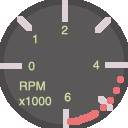
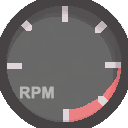
rebalancing, retexturing, ground textures, added v6 engine to the game

diff --git a/res/physics.py b/res/physics.py
@@ -60,22 +60,42 @@ def LimitAngularVelocity(body):
 def DisplayDistance(obj):
     x = obj.X_Position + 30
     text = str(round(x / 32)) + " M"
-    obj.screen.blit(obj.largefont.render(text, True, (220,220,220)), (700,obj.dimensions[1] -100))
+    obj.screen.blit(obj.largefont.render(text, True, (220,220,220)), (140,obj.dimensions[1] -80))
 #physics
-"""Drawing the Vehicle"""
-def Draw(obj):
+def DrawBackground(obj):
     c = 0
     obj.TransferredPolygon = []
     #print("GP:", obj.GroundPolygon)
     while c < len(obj.GroundPolygon):
         obj.TransferredPolygon.append(utils.MultiplyTuple(utils.AddTuples(obj.GroundPolygon[c], (-obj.X_Position, -obj.Y_Position)), obj.GameZoom))
         c += 1
-    pygame.draw.polygon(obj.screen, (0,0,0),obj.TransferredPolygon)
+    #print("Transferred polygon: ", obj.TransferredPolygon)
+    #invert y of the last two points
+    obj.TransferredPolygon[-2] = list(obj.TransferredPolygon[-2])
+    obj.TransferredPolygon[-2][1] = -obj.TransferredPolygon[-2][1]
+    obj.TransferredPolygon[-1] = list(obj.TransferredPolygon[-1])
+    obj.TransferredPolygon[-1][1] = -obj.TransferredPolygon[-1][1]
+    pygame.draw.polygon(obj.screen, (140,150,190),obj.TransferredPolygon)
     obj.body_floor.shape.update
+    #colors of the ground above the ground texture
+    Groundcolors = [(120, 200, 110), (170,120, 40), (150, 110, 0), (120, 100, 0)]
+    #drawing lines on the edges of the ground poly
+    cc = 0
+    while cc < len(Groundcolors):
+        CurrentColor = Groundcolors[cc]
+        c = 0
+        while c < len(obj.TransferredPolygon) - 3:
+            pygame.draw.line(obj.screen, CurrentColor, (obj.TransferredPolygon[c][0],obj.TransferredPolygon[c][1] +cc * 35), (obj.TransferredPolygon[c+1][0],obj.TransferredPolygon[c+1][1] +cc * 35), 36)
+            c += 1
+        cc += 1
+    #the ground texture
+"""Drawing the Vehicle"""
+def Draw(obj):
+    #drawing the background
+    DrawBackground(obj)
     c = 0
     #obj.space.debug_draw(obj.draw_options)
     while c < len(obj.PymunkBodies):
-        print(obj.PymunkBodies[c].angular_velocity)
         LimitAngularVelocity(obj.PymunkBodies[c])
         #negative because it is somehow inverted
         BodyRotation = -utils.RadiansToDegrees(obj.PymunkBodies[c].angle)
@@ -100,7 +120,7 @@ def Draw(obj):
             cc += 1
         c+=1
     #calculating rpm using some random variables
-    obj.rpm = int(obj.VehicleSpeed * 8) + int(obj.Throttle * 110) + random.randint(896, 904)
+    obj.rpm = int(obj.VehicleSpeed * 10) + int(obj.Throttle * 75) + random.randint(896, 904)
     #drawing speed and rpm display
     obj.SpeedDisplay.update(obj,obj.VehicleSpeed, 0.95)
     obj.RPMDisplay.update(obj,obj.rpm, 0.045)

diff --git a/res/procedural.py b/res/procedural.py
@@ -53,6 +53,6 @@ def WritePolygonPositions(obj):
         x += 1
     #edge point
     PolygonPoints.append(((x - 1) * round(obj.dimensions[0] / obj.CFG_Terrain_X_Scale), 10000))
-    obj.GroundRelief = [(0, 700), (4980,700),(5000,900),(5250, 900),(5270,700), (9980, 700), (10100, 650), (10200, 900), (11700, 900), (11800, 700), (12400,700), (30000, 1800), (38000, 1750), (40000, -2250)] #provisorisch
+    obj.GroundRelief = [(-1000, 700), (4980,700),(5000,900),(5250, 900),(5270,700), (9980, 700), (10100, 650), (10200, 900), (11700, 900), (11800, 700), (12400,700), (30000, 1800),(70000, 1800), (80000, 1400), (94000, 0),(90000, -7250)] #provisorisch
     #print("THE GROUND POLYGON IS AT:", PolygonPoints)
     #print(f"drawing poly from terrain item {startx} to terrain item {x}")

diff --git a/res/fw/fw.py b/res/fw/fw.py
@@ -265,8 +265,10 @@ class Display:
         NullOrientation = (0,0)
         self.HandAngle = variable * multiplicator
         self.HandAngle = math.radians(self.HandAngle)
-        if self.HandAngle > self.maxRotation:
-            self.HandAngle = self.maxRotation
+        if self.HandAngle > math.radians(self.maxRotation):
+            self.HandAngle = math.radians(self.maxRotation)
+        elif self.HandAngle < -1:
+            self.HandAngle = -1
         self.Handangle = -self.HandAngle
         self.HandPosition = self.position
     def update(self, obj, value, multiplicator):

diff --git a/main.py b/main.py
@@ -87,7 +87,7 @@ class Game():
     
         #res.interactions.interactions.ButtonArea(Exo)
         if self.gm == "game":
-            Exo.screen.fill((160,180,210))
+            Exo.screen.fill((120,120,120))
             #running the physics
             res.procedural.WritePolygonPositions(Exo)
             res.physics.simulate(Exo, fps)
